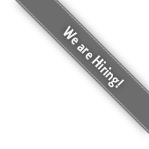
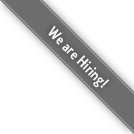
fix(Hiring ribbon): uncover Modeler Selection
-- moved ribbon 10px to the right side
-- moved Selection 1 stack to the left
-- removed Executor.js entry from docpad.conf
-- reduced box size of the ribbon (much more invisible space was used than
needed

Closes: #CAM-1488

Changed region(s): [[0.0, 0.0, 1.0, 1.0]]

diff --git a/site/docpad.conf.js b/site/docpad.conf.js
@@ -256,7 +256,6 @@ var docpadConfig = {
             "assets/vendor/respond/respond.min.js",
             "assets/vendor/jquery/jquery.min.js",
             "assets/vendor/raphaeljs/raphael.js",
-            "assets/app/bpmn/Executor.js",
             "assets/app/cabpmn.js",
             "assets/vendor/google-code-prettify/prettify.min.js",
             "assets/vendor/jquery/validate/jquery.validate.min.js",

diff --git a/site/src/files/assets/css/small.css b/site/src/files/assets/css/small.css
@@ -3,7 +3,7 @@
   .hiring-ribbon {
     position: fixed;
     top: 40px;
-    right: 0;
+    right: -10px;
     border: 0;
     display: inline;
     visibility: visible;
